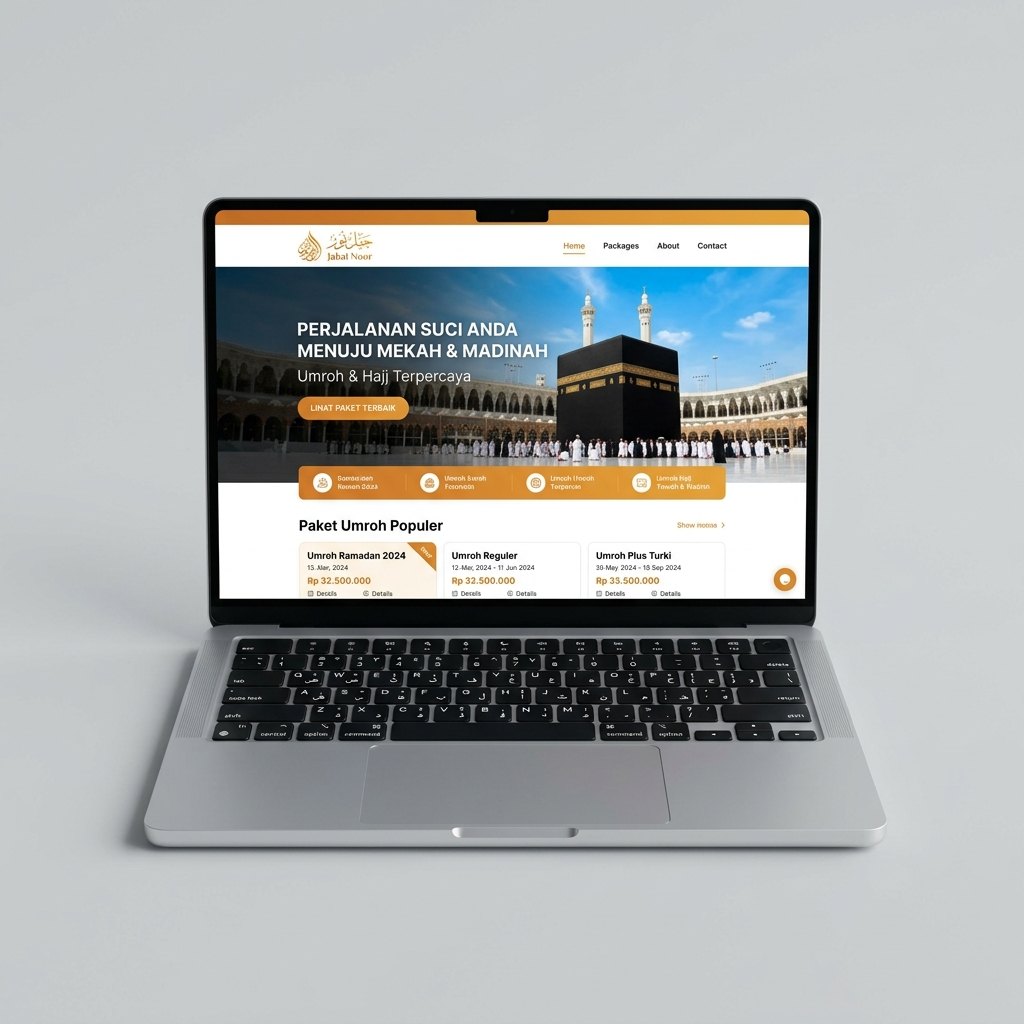
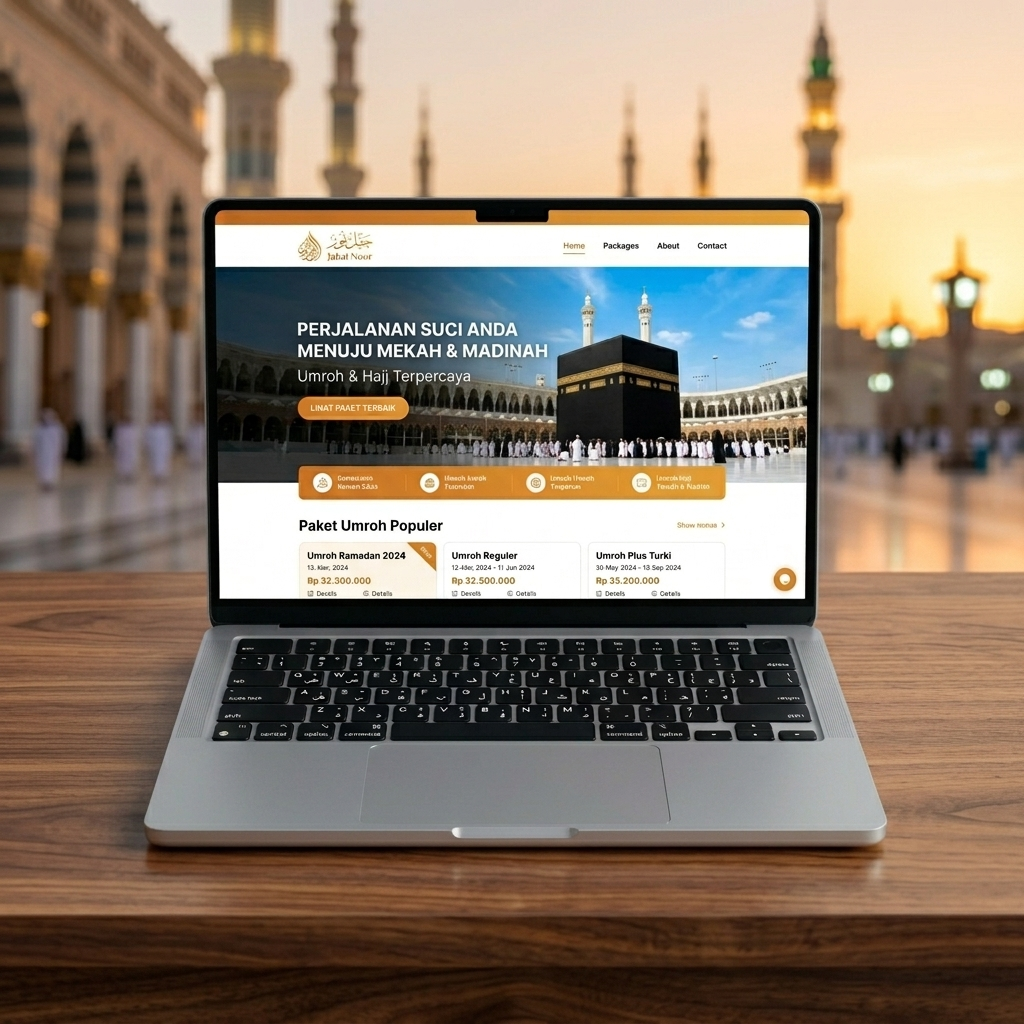
feat: add new demo project assets and populate demo configuration constants

diff --git a/src/constants/demos.js b/src/constants/demos.js
@@ -1,17 +1,15 @@
-import coffeeImg from "../assets/Coffe.jpg";
 import starbucksCoverImg from "../assets/StarbucksCover.png";
 import hotelCoverImg from "../assets/HotelCover.png";
-import rentalImg from "../assets/Rental.jpg";
-import hotelImg from "../assets/Hotel.jpg";
-import restoImg from "../assets/Resto.jpg";
-import sekolahImg from "../assets/Sekolah.jpg";
-import laundryImg from "../assets/Loundry.jpg";
-import umrohImg from "../assets/Umroh.jpg";
 import unitaCoverImg from "../assets/UNITACover.png";
 import aryaMotorCoverImg from "../assets/AryaMotorCover.png";
 import nikoNikoCoverImg from "../assets/NikoNikoCover.png";
 import aioLaundryCoverImg from "../assets/AioLaundryCover.png";
 import umrohCoverImg from "../assets/UmrohCover.png";
+import akademikCoverImg from "../assets/AkademikCover.png";
+import warungOSCoverImg from "../assets/WarungOSCover.png";
+import examOSCoverImg from "../assets/ExamOSCover.png";
+import absenOSCoverImg from "../assets/AbsenOSCover.png";
+import posMobileCoverImg from "../assets/POSMobileCover.png";
 
 
 
@@ -78,7 +76,7 @@ export const demos = [
     desc: "Management sekolah + absensi geolocation",
     icon: "🎓",
     category: "sistem berbasis web",
-    image: sekolahImg,
+    image: akademikCoverImg,
   },
   {
     name: "WarungOS",
@@ -86,7 +84,7 @@ export const demos = [
     desc: "Sistem Kasir & Stok Toko Klontong Modern",
     icon: "🏪",
     category: "sistem berbasis web",
-    image: restoImg,
+    image: warungOSCoverImg,
   },
   {
     name: "ExamOS",
@@ -94,7 +92,7 @@ export const demos = [
     desc: "Platform Ujian Online & Bank Soal Modern",
     icon: "📝",
     category: "sistem berbasis web",
-    image: sekolahImg,
+    image: examOSCoverImg,
   },
   {
     name: "AbsenOS",
@@ -102,7 +100,7 @@ export const demos = [
     desc: "Mobile Attendance with Biometric & Geolocation",
     icon: "📱",
     category: "mobile app",
-    image: laundryImg,
+    image: absenOSCoverImg,
   },
   {
     name: "POS Mobile",
@@ -110,6 +108,6 @@ export const demos = [
     desc: "Mobile cashier app for UMKM business.",
     icon: "💰",
     category: "mobile app",
-    image: coffeeImg,
+    image: posMobileCoverImg,
   },
 ];